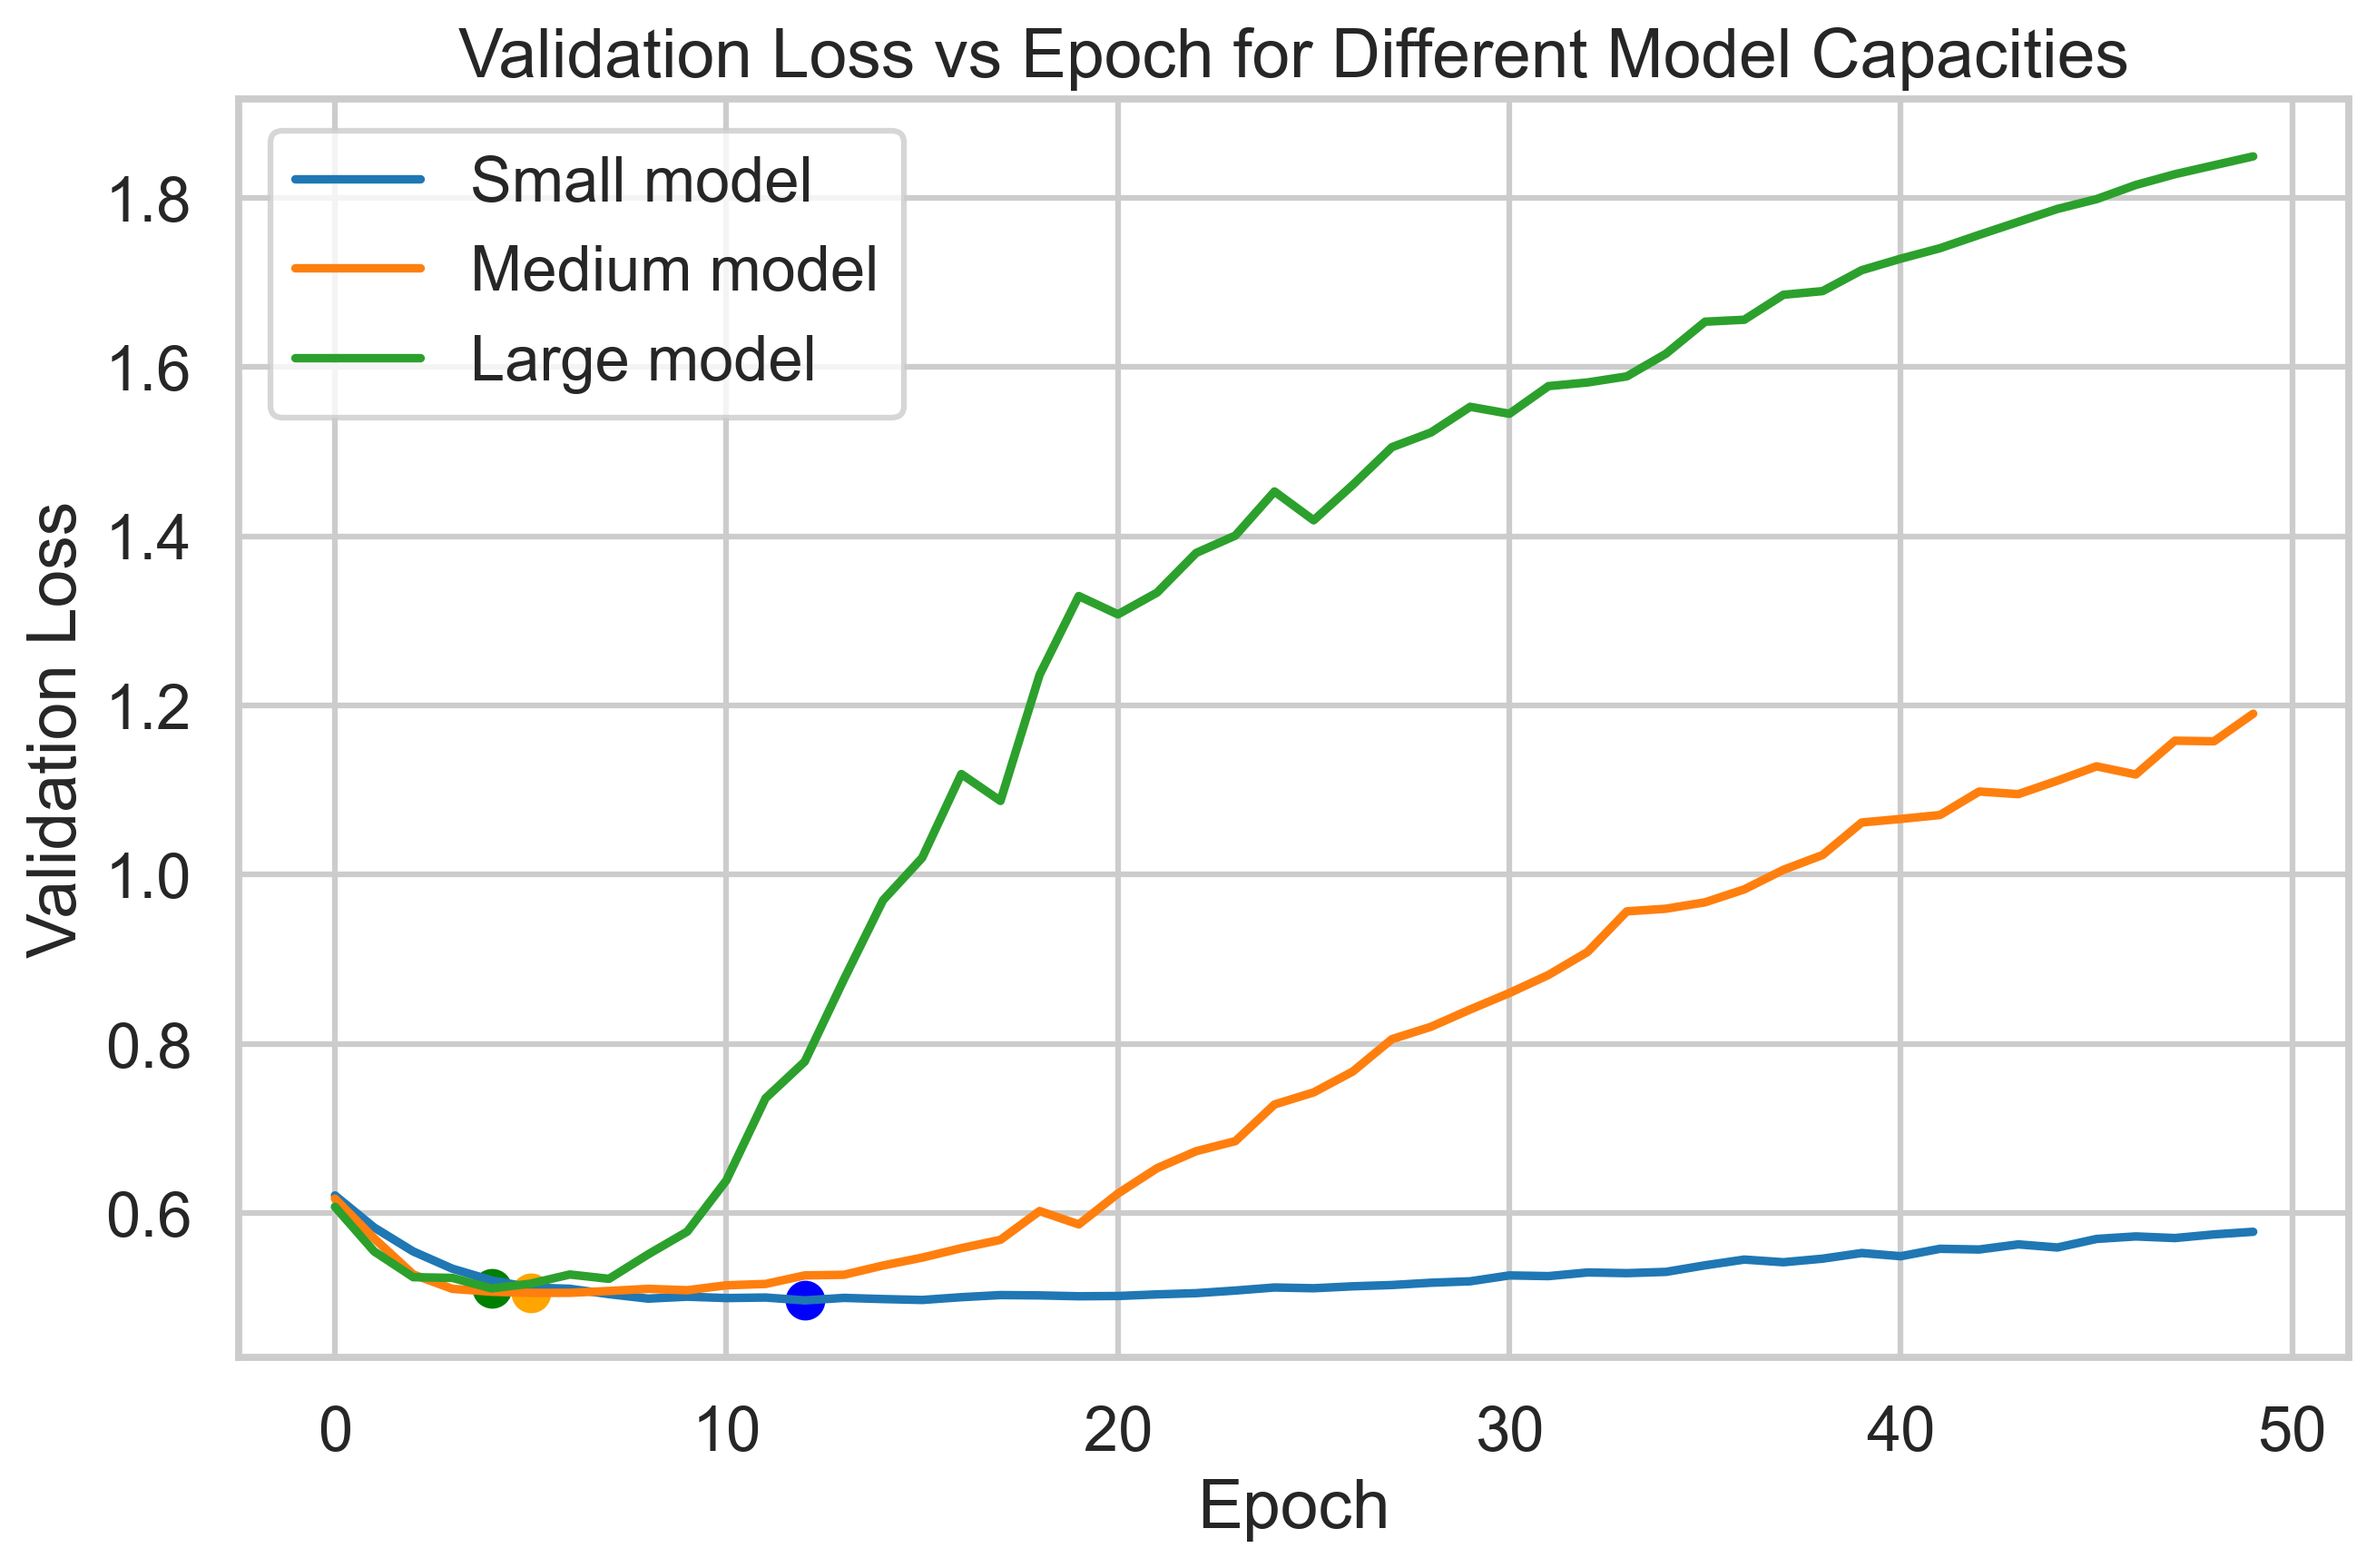
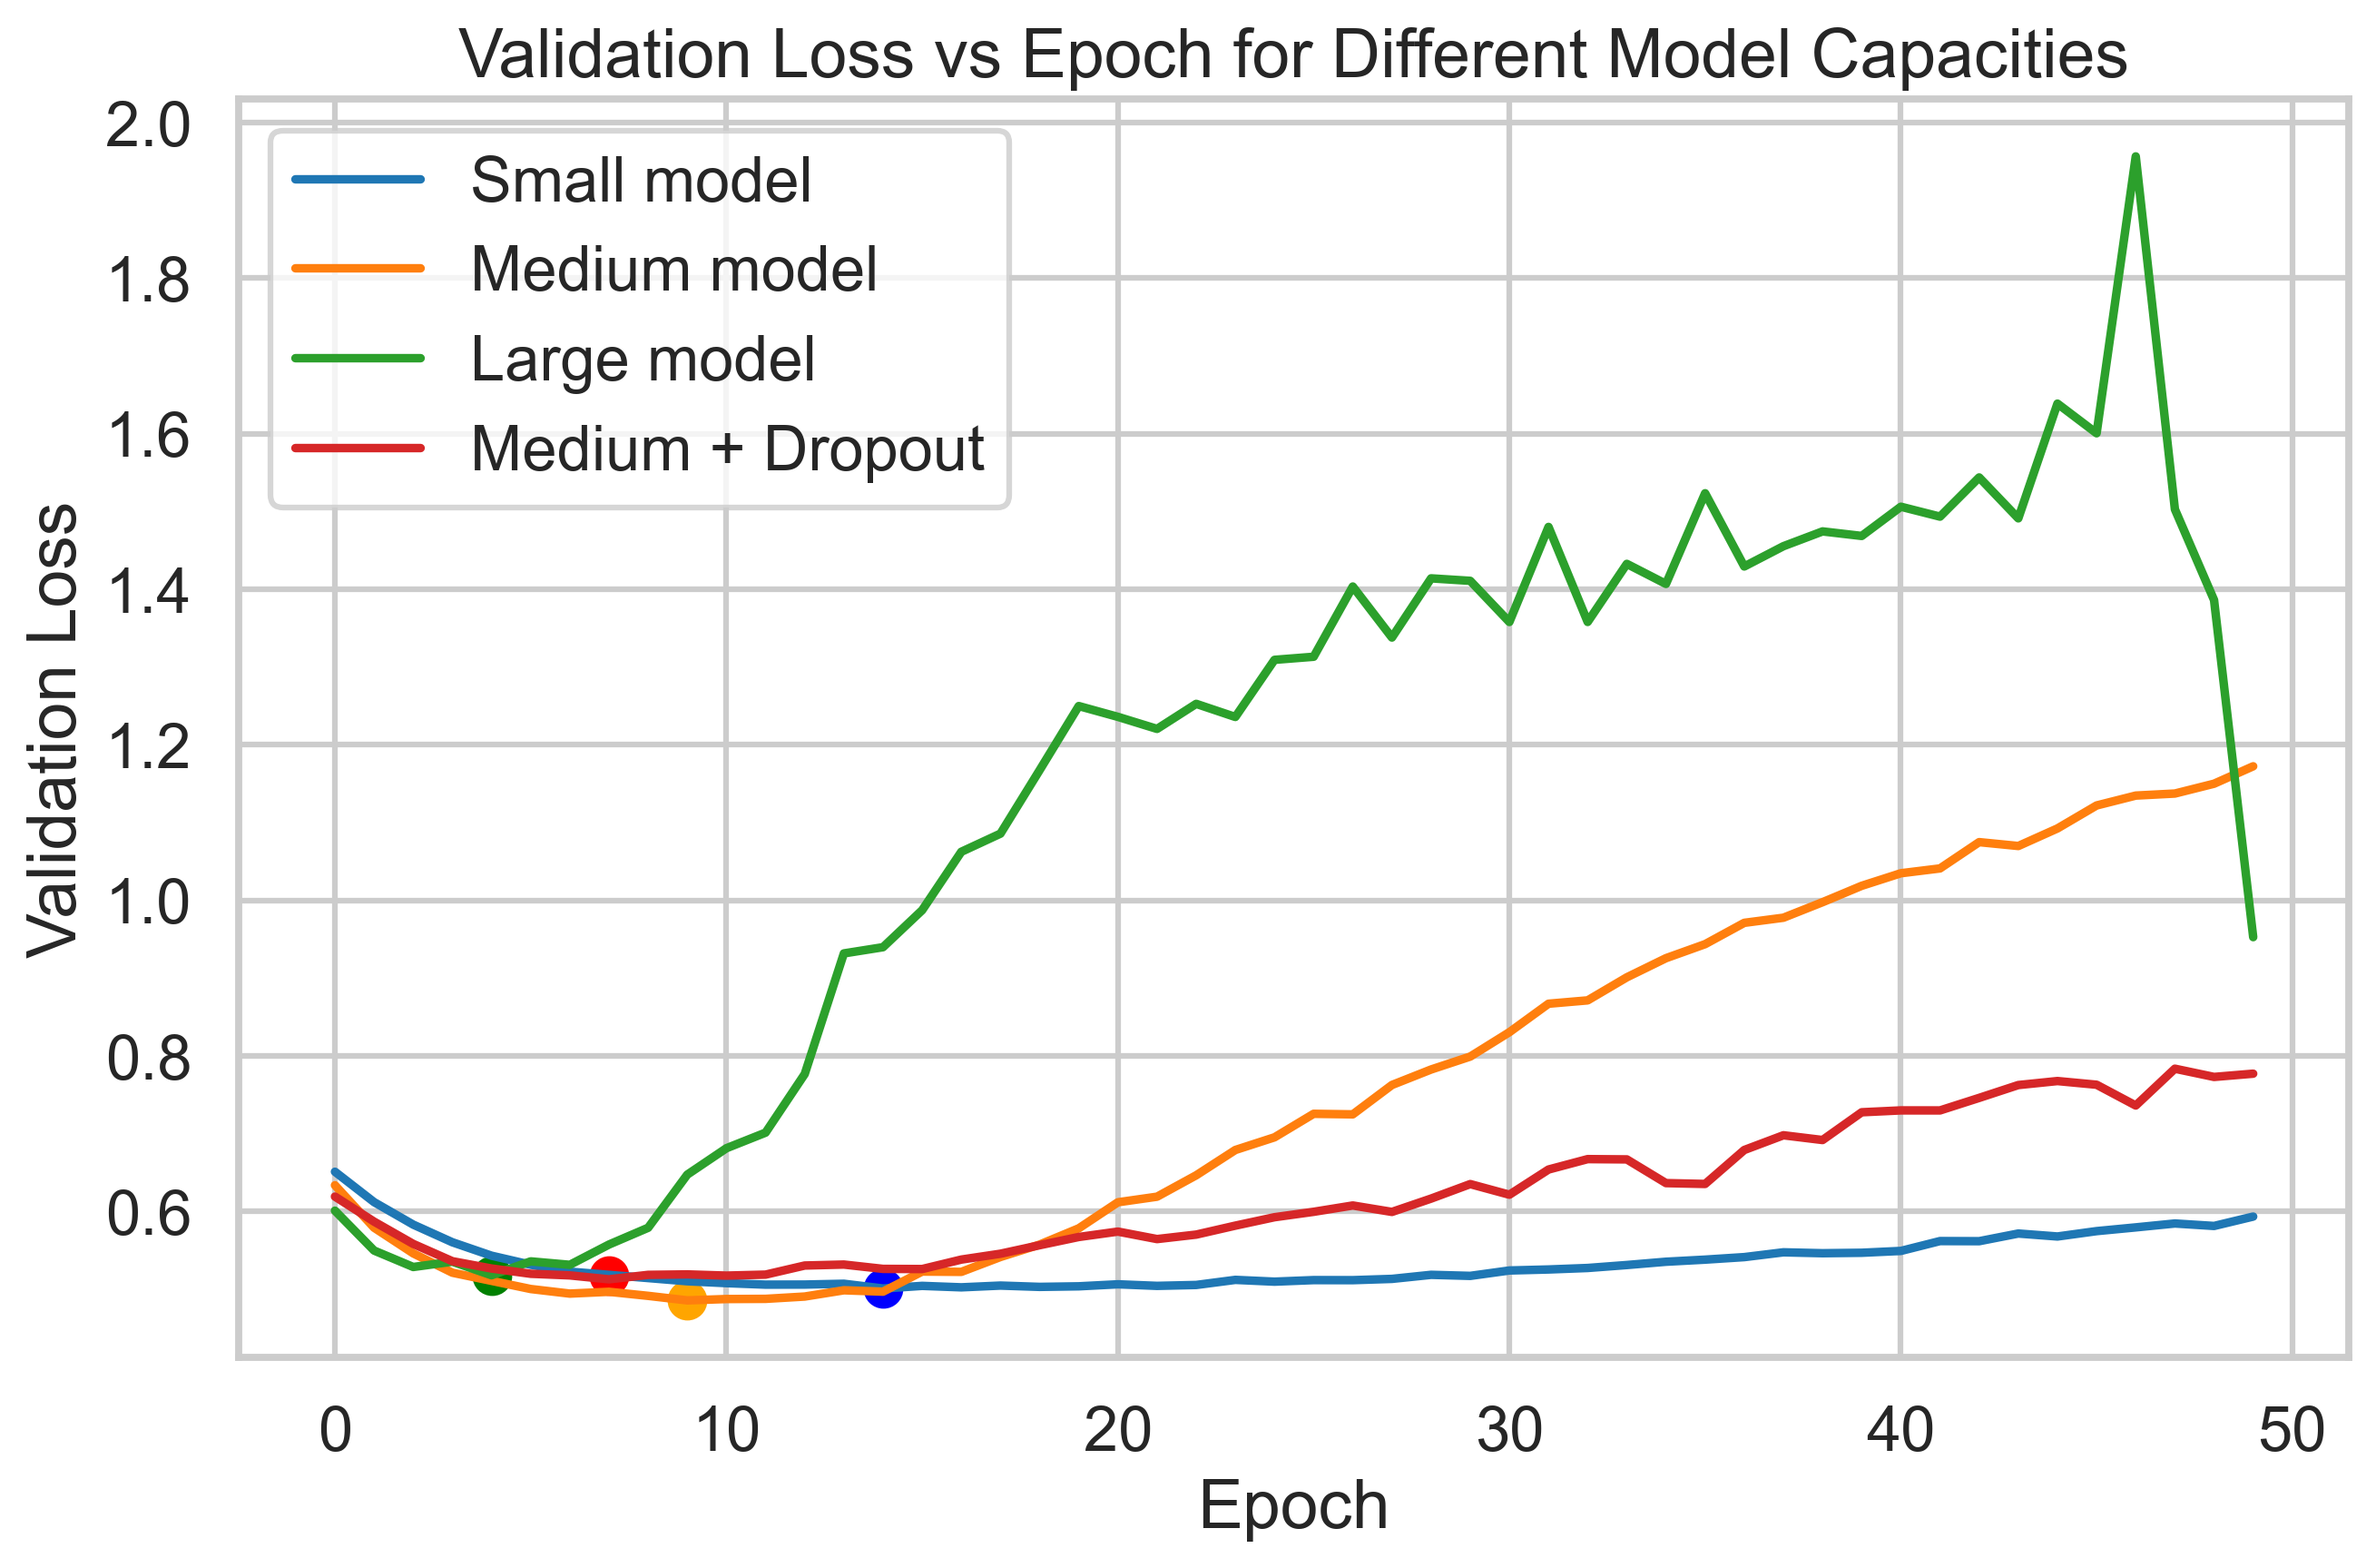
add dropout

diff --git a/main.py b/main.py
@@ -13,6 +13,9 @@ import numpy as np
 import matplotlib.pyplot as plt
 import seaborn as sns
 
+torch.manual_seed(42)
+np.random.seed(42)
+
 def main() :
     sns.set_style("whitegrid")
     sns.set_context("talk")
@@ -103,8 +106,49 @@ def main() :
 
     print(metrics)
     print('\n'+"-"*80+"\n")
-    print("-"*20+"\tSMALL MODEL\t"+"-"*20)
+
+
+    # Medium Architecture model + Dropout
+    print("-"*20+"\tMEDIUM MODEL + DROPOUT\t"+"-"*20)
+
+    dropoutModel = CreditRiskANN(
+        input_size=input_size,
+        hidden_layers=[64,32],
+        dropout=0.3
+    )
+
+    criterion = nn.BCEWithLogitsLoss()
+
+    optimizer = torch.optim.Adam(dropoutModel.parameters(), lr=0.001)
+
+    train_losses_d, val_losses_d = train_model(
+        dropoutModel,
+        train_loader,
+        test_loader,
+        epochs=50,
+        criterion=criterion,
+        optimizer=optimizer
+    )
+
+    metrics = evaluate(dropoutModel, X_test, y_test)
+
+    plt.figure()
+    plt.plot(train_losses_d, label="Train Loss")
+    plt.plot(val_losses_d, label="Validation Loss")
+
+    plt.xlabel("Epoch")
+    plt.ylabel("Loss")
+    plt.title("Training vs Validation Loss - Medium + Dropout")
+
+    plt.legend()
+    plt.savefig("plots/training_curve_dropout.png")
+
+    print(metrics)
+    print('\n'+"-"*80+"\n")
+
     # Small Architecture model
+
+    print("-"*20+"\tSMALL MODEL\t"+"-"*20)
     smallModel = CreditRiskANN(
         input_size=input_size,
         hidden_layers=[32]
@@ -139,6 +183,7 @@ def main() :
     print(metrics)
     print('\n'+"-"*80+"\n")
     print("-"*20+"\tLARGE MODEL\t"+"-"*20)
+
     # Large Architecture model
     largeModel = CreditRiskANN(
         input_size=input_size,
@@ -180,14 +225,17 @@ def main() :
     best_epoch_small = np.argmin(val_losses_s)
     best_epoch_medium = np.argmin(val_losses_m)
     best_epoch_large = np.argmin(val_losses_l)
+    best_epoch_dropout = np.argmin(val_losses_d)
 
     plt.scatter(best_epoch_small, val_losses_s[best_epoch_small], color="blue")
     plt.scatter(best_epoch_medium, val_losses_m[best_epoch_medium], color="orange")
     plt.scatter(best_epoch_large, val_losses_l[best_epoch_large], color="green")
+    plt.scatter(best_epoch_dropout, val_losses_l[best_epoch_large], color="red")
 
     plt.plot(val_losses_s, label="Small model")
     plt.plot(val_losses_m, label="Medium model")
     plt.plot(val_losses_l, label="Large model")
+    plt.plot(val_losses_d, label="Medium + Dropout")
 
     plt.xlabel("Epoch")
     plt.ylabel("Validation Loss")

diff --git a/models/models.py b/models/models.py
@@ -1,9 +1,8 @@
-import torch # type:ignore
 import torch.nn as nn # type:ignore
 
 class CreditRiskANN(nn.Module):
 
-    def __init__(self, input_size, hidden_layers):
+    def __init__(self, input_size, hidden_layers, dropout=0.0):
         super().__init__()
 
         layers = []
@@ -12,6 +11,10 @@ class CreditRiskANN(nn.Module):
         for h in hidden_layers:
             layers.append(nn.Linear(prev, h))
             layers.append(nn.ReLU())
+
+            if dropout > 0:
+                layers.append(nn.Dropout(dropout))
+
             prev = h
 
         layers.append(nn.Linear(prev, 1))

diff --git a/README.md b/README.md
@@ -52,6 +52,7 @@ Analyze overfitting and generalization
 
 - model checkpoint is around epoch 12-13.
 - After that = training improves , generalization worsens
+- [lower capacity ->> slower memorization]
 
 ### Metrics 
     accuracy  ≈ 0.79
@@ -61,3 +62,49 @@ Analyze overfitting and generalization
 
     recall = precision -> model is balanced
 
+## LARGE ARCHITECTURE MODEL (60 → 128 → 64 → 32 → 1)
+    18000 parameters
+- Extremely More degrees of freedom than data complexity requires.
+- The neural network begins to overfit after approximately 6 epochs, as indicated by increasing validation loss despite decreasing training loss.
+
+- model checkpoint is around epoch 6.
+- After that = training improves , generalization worsens
+- [Higer capacity ->> faster memorization]
+
+### Metrics 
+    accuracy  ≈ 0.785
+    precision ≈ 0.633
+    recall    ≈ 0.644
+    F1        ≈ 0.638
+
+    recall = precision -> model is balanced
+
+## EXPERIMENTAL INSIGHTS
+
+1. 
+    small model -> slower overfitting
+    medium model -> balanced performance
+    large model -> fastest memorization
+
+    because
+
+    larger networks have more parameters
+        - higher capacity
+        - easier memorization
+
+2. 
+    Even though the large model had the lowest validation loss (~0.487), its final metrics are slightly worse.
+
+    Because the model: overfits extremely fast
+
+### UNDERSTANDING
+
+Increasing neural network capacity leads to faster memorization of the training data. While the larger model achieves lower training loss, its validation performance deteriorates earlier, indicating overfitting. This suggests that moderate-capacity networks provide better generalization on small tabular datasets.
+
+
+| Model            | Architecture | Best Epoch | Accuracy | Precision | Recall |  F1   |
+| ---------------- | ------------ | ---------- | -------- | --------- | ------ | ---   |
+| Small            | [32]         | 13         | 0.8      | 0.661     | 0.661  | 0.661 |
+| Medium           | [64,32]      | 9          | 0.77     | 0.603     | 0.644  | 0.623 |
+| Large            | [128,64,32]  | 6          | 0.775    | 0.616     | 0.627  | 0.622 |
+| Medium + Dropout | [64,32]      | 12         | 0.785    | 0.633     | 0.644  | 0.639 |
